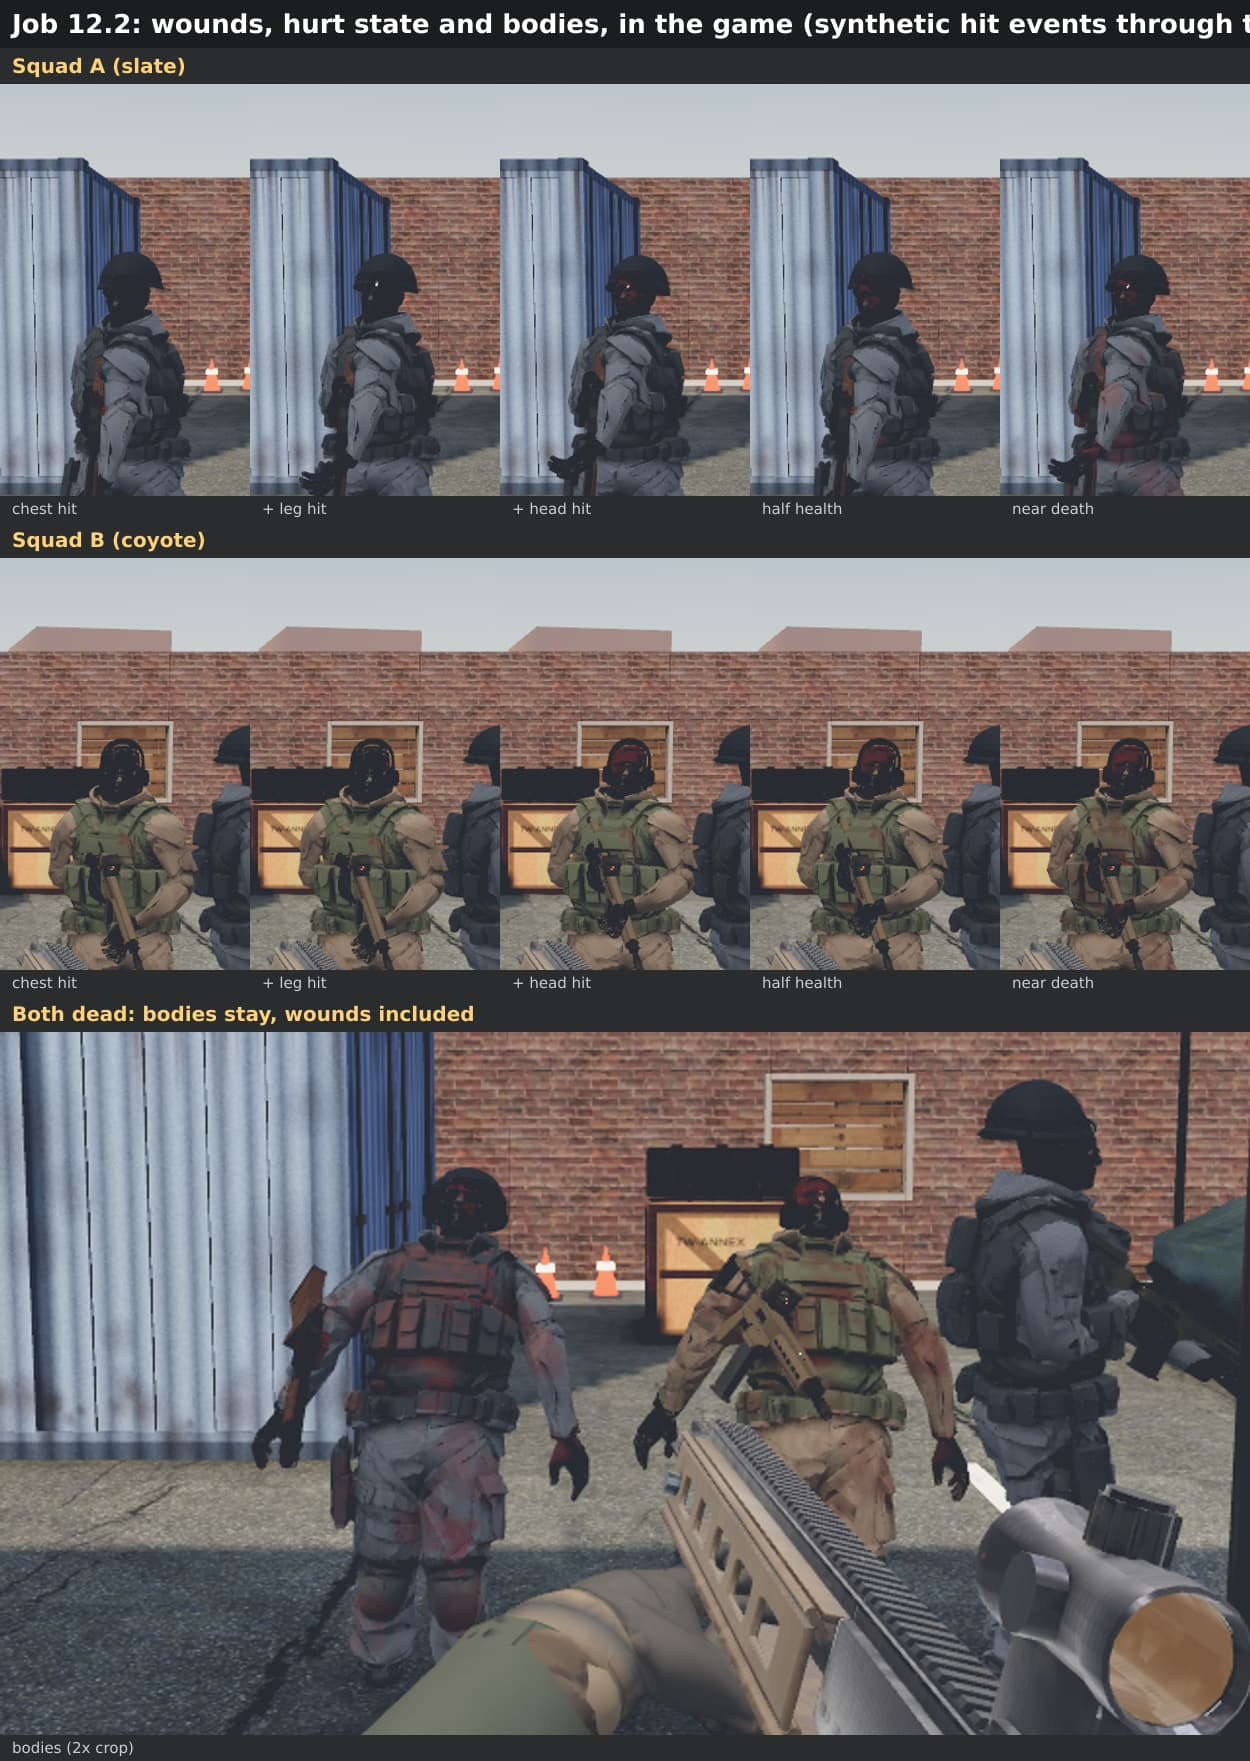
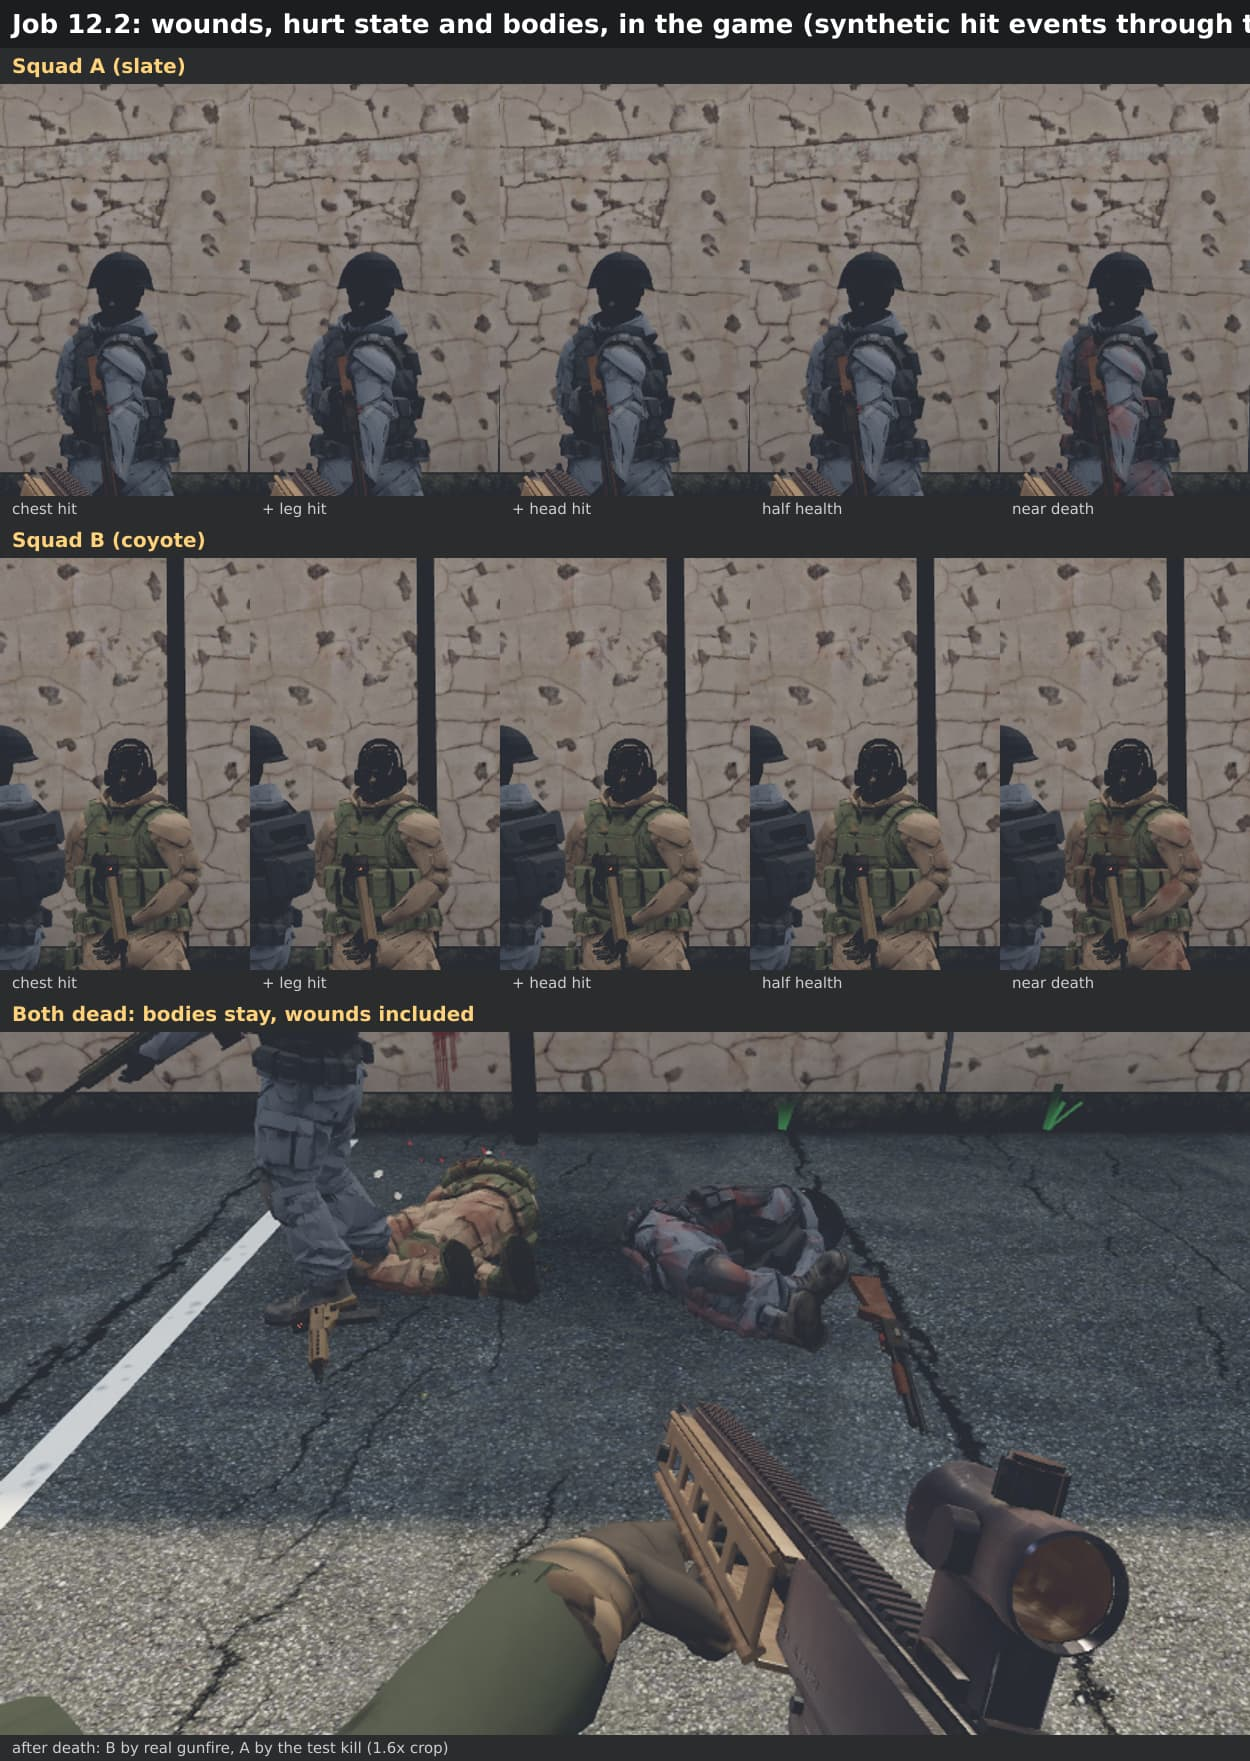
Breachline 12.2/12.6: corrected wounds sheet (real kill, fighters facing the camera), STATUS notes for the ragdoll
Claude-Session: https://claude.ai/code/session_015jvJA8TRt3GcqpHuCKF3vb

diff --git a/docs/evidence/breachline/patch-trial/STATUS.md b/docs/evidence/breachline/patch-trial/STATUS.md
@@ -664,3 +664,66 @@ Not done:
 - **The dropped weapon** follows the stock animator's behaviour.
 
 How the evidence was made: `scripts/breachline-assets/patch-trial/wounds-test.mjs` and `wounds-sheet.mjs`. Hits are synthetic `shot` and `hit` events fed through `fighters.handle`, and the kills are a test-only injection into the served `index.ts`. No files in `src/` outside my folders were changed. `tests/games/breachline/warm.spec.ts` was not run in this pass, because usage is tight.
+
+### 12.2 corrections (planner review)
+
+- **Bodies.** The first sheet showed two dead fighters standing. That was the evidence script's fault, not the game's: it drew a single frame after a kill, and the death pose only advances with drawn frames. Since 12.6, bodies fall as ragdolls. `job12-wounds.jpg` is rebuilt: B dies to real gunfire (3 rounds through the sim), A to the test kill, and both lie where they fell.
+- **Wound look.** Each wound now has a dark entry core about 1.5 cm across with a darker ring, and a stain that is densest at the hole and thins outward instead of an even wash. Head wounds are half the size and lighter, so a single round no longer reddens the whole face. Honest limit: at 3 m in a 720p frame the entry core is only a few pixels.
+- **Camera.** The evidence script now turns the fighters to face the camera before each hit and each picture.
+
+## 12.6 Ragdoll on death — done
+
+Evidence: `job12-ragdoll.jpg` (139 KB). Four real kills by this player through the test hook, each confirmed by the sim's own kill event:
+- rifle to the chest (`Marrow AR-5`)
+- DMR head shot (`Corvin DMR`, head)
+- shotgun at 1.8 m (`Halden 12`)
+- frag grenade at the feet (`Frag grenade`)
+
+Each strip shows the kill, then 0.15 s, 0.4 s, 0.9 s and 3.4 s, by which time the body is at rest. The script holds the game's own frame loop during each capture, so only fixed 0.016 s draws advance the ragdoll.
+
+How the ragdoll works:
+- **Model.** `render/patchfighters/ragdoll.ts`, with no physics library, written in plain arithmetic rather than three.js.
+- **Points and sticks.** 16 points (pelvis, chest, neck, head centre, shoulders, elbows, hands, hips, knees, feet), joined by 25 sticks. The sticks include braces that keep the chest and the pelvis rigid.
+- **Joint limits.** Minimum distances, taken from the bone lengths, stand in for joint limits. A hinge rule keeps the knees bending forward only.
+- **Physics.** Verlet integration at a fixed 1/120 s step with 6 constraint passes, gravity and damping.
+- **Collision.** Points collide with the floor, the map's solid boxes, intact or reinforced panel cells, and the map bounds. The map data is only read. Only the map within 3 m is checked, gathered again whenever the body has moved 1.5 m.
+- **Friction and sleep.** Friction removes the velocity into a surface and 22% of the velocity along it, each step. The ragdoll sleeps once nothing has moved 0.6 mm per step for 0.3 s (after at least 0.5 s), or at 3 s. It then stays as the body until the round reset or a respawn.
+
+Start state and impulse:
+- **Start.** The live bone positions as last drawn, plus the fighter's own speed.
+- **Gun kills.** The killing shooter's last `shot` ray hits the body point nearest it, or the head on a head shot. That point and its neighbours get a kick along the ray: 2 to 3.6 m/s by weapon, and 5.5 m/s with a wider spread and a little lift for the shotgun.
+- **Blasts.** Kills whose weapon name is a grenade or the breach charge use the last `boom`. The kick points outward along the floor, strongest at the parts nearest the blast, so the legs are swept and the body turns over.
+- **Melee, or a gun kill whose shot this client missed.** A kick away from the killer.
+- **Every death.** The knees buckle forward, and a little seeded scatter goes into the arms. The seed comes from the victim, their death count and the killer. The weapon drops as its own 3-point body and lands beside them.
+
+Driving the skeleton:
+- **Torso.** The pelvis and chest bones take their rotation from the hip and shoulder lines (current frame times the inverse of the bind frame). spine1 sits halfway between them.
+- **Limbs and neck.** Aimed along their sticks with a swing from the parent bone, so they don't twist.
+- **Helper bones.** Elbow, knee, deltoid and hip helpers take half the rotation, as the animator does.
+- **What follows.** The skinned mesh, its wounds and the headgear all follow. The weapon takes the turn of its three points since death.
+
+Same on every client: the ragdoll starts only from shared events and is stepped at a fixed rate, so frame rate doesn't change the result. Clients can still differ slightly, because each starts from its own interpolated live pose.
+
+Reporting:
+- `pose(id)` and `bodies()` report the pelvis position of the ragdoll.
+- `bodies()` items gain `still` (true once the ragdoll sleeps). **Note for the environment session:** the blood pool is placed at death and does not move afterwards. In the blast strip the body lands about 2.4 m from the pool. Placing the pool when `still` turns true (or moving it then) would put it under the body.
+
+Budget:
+- Nothing is compiled or uploaded at death.
+- `warm.spec.ts` passes (2/2) with the ragdoll in place.
+- In the unit test, about 0.08 ms per step per ragdoll (under vitest). Ten bodies at once cost about 2 ms per frame for at most 3 s, then nothing.
+
+Test: `tests/games/breachline/ragdoll.test.ts`.
+- **Every spawn and roam point.** Deaths there (chest shot from the front, head shot from the side, a strong blast from behind) end asleep within the time limit, with the head below 1.1 m, nothing above 1.25 m, and no point inside a solid box or outside the bounds.
+- **Wall.** A body thrown at a wall stops on its own side.
+- **Repeatability.** The same start gives the same rest position.
+
+Tests run on this head:
+- `npx vitest run tests/games/breachline`: 12 files, 111 tests passed.
+- Playwright `warm.spec.ts`: 2 passed. `play.spec.ts`: 6 passed.
+- `audio.spec.ts`: 1 passed when run alone. It timed out at 120 s when run alongside a capture, because of CPU contention; it renders sound offline and doesn't touch the fighters.
+
+Not done:
+- Bodies don't block each other.
+- A body resting on a panel stays put if the panel is later destroyed under it, because collision is only checked while the ragdoll is awake.
+- The stock fighters (`?fighters=stock`) keep their canned death.
